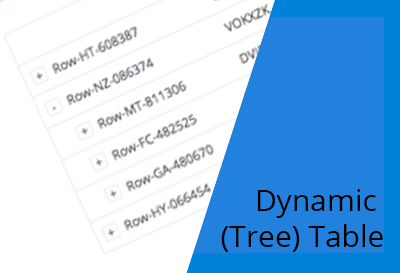
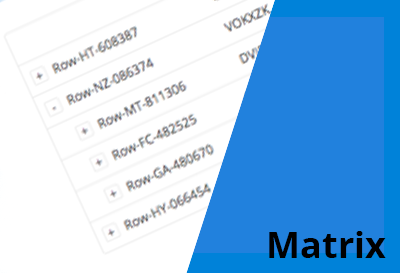
Rename Dynamic Table to Matrix

Changed region(s): [[0.54, 0.8205, 0.96, 0.967], [0.63, 0.674, 0.96, 0.8205]]

diff --git a/webpack.config.prod.js b/webpack.config.prod.js
@@ -54,7 +54,7 @@ const customConfig = {
                     output: {
                         comments: false,
                         beautify: false,
-                        preamble: `/* Dynamic Table Widget || Version ${pkg.version} || Apache 2 LICENSE || Developer: ${pkg.author} || Please report any issues here: https://github.com/JelteMX/mendix-dynamic-table/issues */\n`
+                        preamble: `/* Matrix || Version ${pkg.version} || Apache 2 LICENSE || Developer: ${pkg.author} || Please report any issues here: https://github.com/JelteMX/mendix-dynamic-table/issues */\n`
                         // comments: false
                     },
                     toplevel: false,

diff --git a/src/DynamicTable.webmodeler.tsx b/src/DynamicTable.webmodeler.tsx
@@ -5,7 +5,7 @@ declare function require(name: string): string;
 
 export class preview extends Component<DynamicTableContainerProps> {
     render(): ReactNode {
-        return <div>No preview available for Dynamic Table</div>;
+        return <div>No preview available for Matrix</div>;
     }
 
     // private transformProps(props: DynamicTableContainerProps): DynamicTreeTableContainerProps {

diff --git a/README.md b/README.md
@@ -7,9 +7,9 @@
 [![GitHub release](https://img.shields.io/github/release/JelteMX/mendix-dynamic-table)](https://github.com/JelteMX/mendix-dynamic-table/releases/latest)
 [![GitHub issues](https://img.shields.io/github/issues/JelteMX/mendix-dynamic-table)](https://github.com/JelteMX/mendix-dynamic-table/issues)
 
-## Dynamic (Tree) Table for Mendix
+## Matrix Widget for Mendix
 
-Mendix Dynamic (Tree) Table using [Ant Design Table](https://ant.design/components/table/) (MIT License). This is inspired on the [Tree Table widget](https://appstore.home.mendix.com/link/app/111095/), but takes objects in the columns as well.
+Mendix Matrix Widget using [Ant Design Table](https://ant.design/components/table/) (MIT License). This is inspired on the [Tree Table widget](https://appstore.home.mendix.com/link/app/111095/), but takes objects in the columns as well.
 
 ![logo](/assets/AppStoreIcon.png)
 
@@ -23,7 +23,7 @@ Show a reference table. Rows & Columns are Mendix objects, Entry objects are in 
 
 ## Features
 
-- Display a tree structure in a table
+- Display a matrix, where rows can have children, like a tree
 - Data Sources: XPath, Microflow, Nanoflow
 - Children: Get over reference, Microflow, Nanoflow
 - Selection of rows (single, multi)
